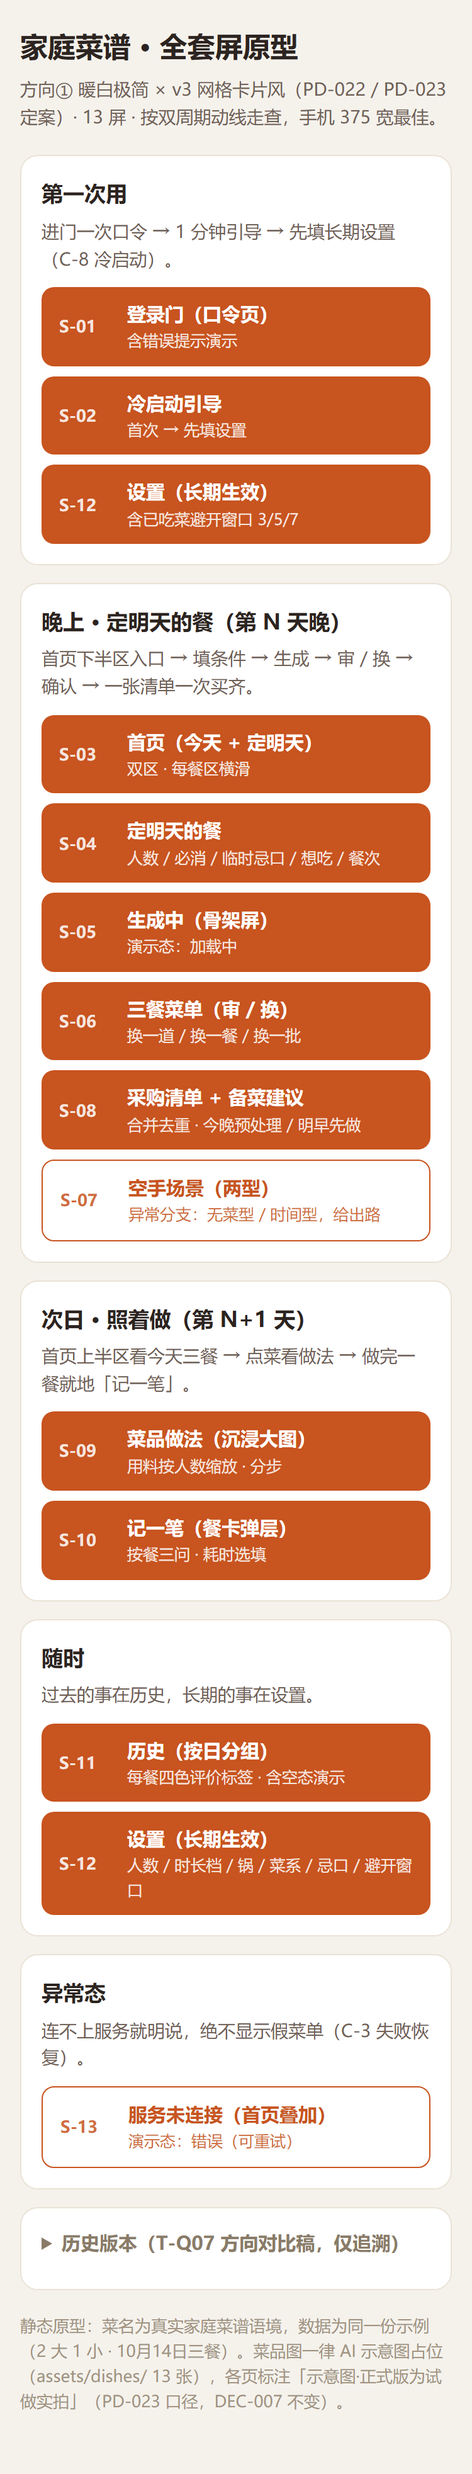
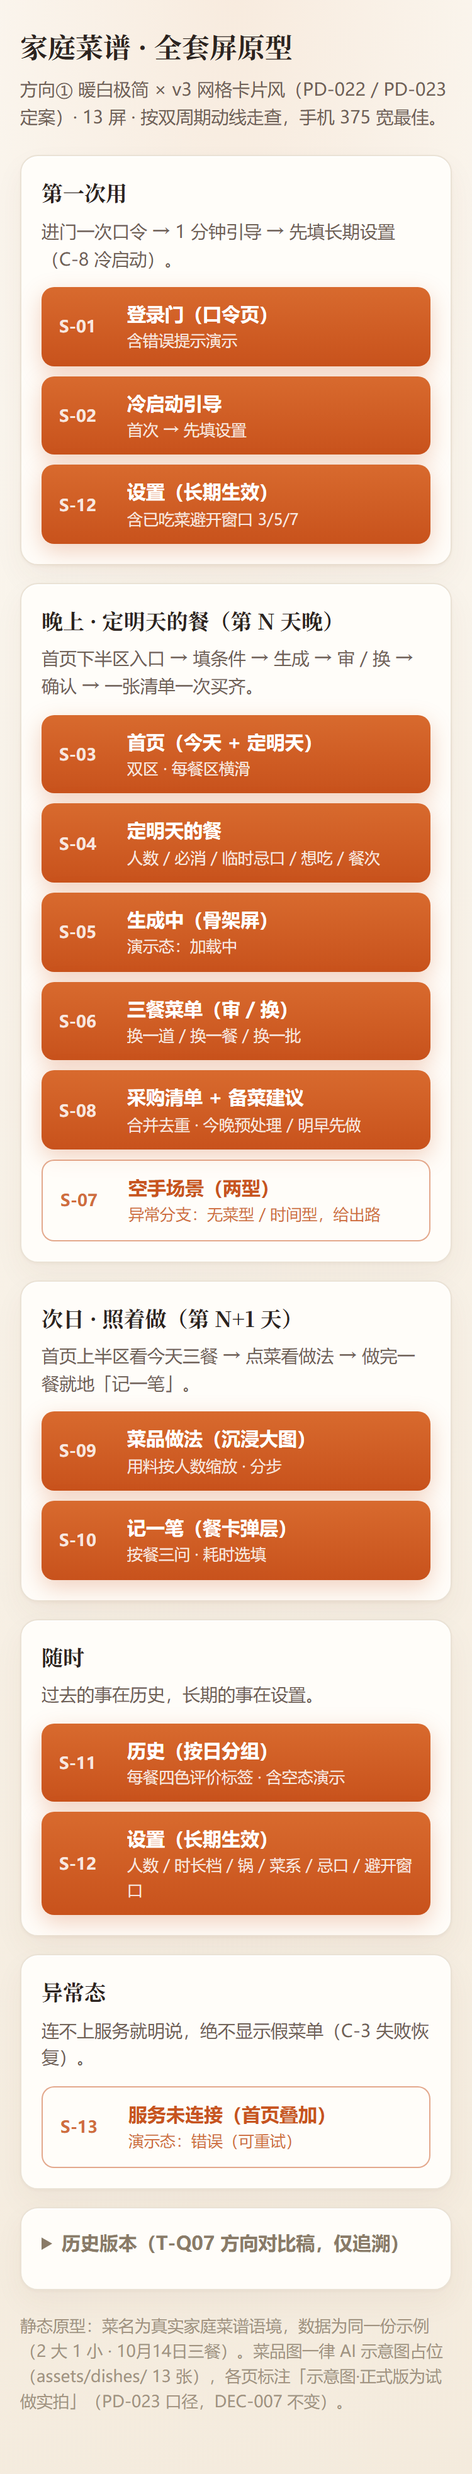
docs(q8): 全套屏原型质感升级（渐变/磨砂/serif 标题/柔影卡片）
手机走查反馈「无高级感」后的纯 CSS 层迭代，版式与屏号结构不动：暖色微渐变底+顶部氛围光；Tabbar/sticky 栏 blur(12px) 磨砂（@supports 外 95% 实色降级）；主按钮暖橙纵向渐变+柔橙影+按压下沉；卡片微暖白+内高光+多层柔影；一级标题与数字日期引 serif 系统字栈、数字 tabular-nums；标签/chips 改半透柔彩+同色细边；行级分隔线改两侧渐隐。文字颜色/字号/触达不变，对比度不降级。design-spec-v2 token 节同步定稿；evidence 14 页同名重截，逐张目检无浏览器错误。

diff --git a/docs/design/v2/prototypes/style-1/style.css b/docs/design/v2/prototypes/style-1/style.css
@@ -1,15 +1,25 @@
 /* ============================================================
    方向① 暖白极简 · 共享 token 组（本方向 3 屏共用，换 token 即换风格）
+   质感迭代（2026-10-14）：暖色微渐变底 + 磨砂浮层 + 主色纵向渐变 +
+   微暖白卡（内高光+多层柔影）+ serif 展示标题 + 两侧渐隐分隔线。
+   原则：克制，不改文字颜色/字号/触达高度，对比度不降级。
    ============================================================ */
 :root {
   /* 色板 */
-  --c-bg: #FAF6EF;            /* 米白页面底 */
-  --c-card: #FFFFFF;          /* 卡片底 */
+  --c-bg: #FBF7F0;            /* 页面底（渐变亮端，纯色场景回退值） */
+  --c-bg-lo: #F4EBDD;         /* 页面底渐变暗端 */
+  --grad-bg: linear-gradient(165deg, var(--c-bg) 0%, var(--c-bg-lo) 100%);
+  --glow-top: radial-gradient(90% 40% at 50% 0%, rgba(216, 120, 52, .09) 0%, rgba(216, 120, 52, 0) 70%); /* 顶部暖橙氛围光，极低透明度 */
+  --c-card: #FFFDF9;          /* 卡片底（微暖白） */
   --c-ink: #2C2420;           /* 深棕主文字 */
   --c-ink-2: #6F6156;         /* 次文字 */
   --c-ink-3: #A2937F;         /* 辅助弱化 */
   --c-line: #EAE2D5;          /* 细分隔线 */
+  --line-fade: linear-gradient(90deg, rgba(234, 226, 213, 0) 0%, rgba(234, 226, 213, 1) 14%, rgba(234, 226, 213, 1) 86%, rgba(234, 226, 213, 0) 100%); /* 两侧渐隐分隔线 */
   --c-primary: #C8541F;       /* 暖陶橙主色 */
+  --c-primary-hi: #D86A2E;    /* 主色渐变亮端 */
+  --c-primary-lo: #C8521C;    /* 主色渐变暗端 */
+  --grad-primary: linear-gradient(180deg, var(--c-primary-hi) 0%, var(--c-primary-lo) 100%);
   --c-primary-ink: #FFFFFF;   /* 主色上文字 */
   --c-primary-soft: #F8E7DA;  /* 主色浅底 */
   --c-accent: #C8541F;        /* 食欲点缀（时间/小提示） */
@@ -17,6 +27,12 @@
   --c-ok-ink: #476B3C;        /* 必消/好评绿字 */
   --c-tag-bg: #F1EDE5;        /* 中性标签底 */
   --c-tag-ink: #8A7B68;       /* 中性标签字 */
+  /* 磨砂浮层（Tabbar / sticky 操作栏 / 轻浮横幅） */
+  --c-glass: rgba(255, 253, 249, .62);        /* @supports 生效时的半透底 */
+  --c-glass-solid: rgba(255, 253, 249, .95);  /* 低版本降级：95% 不透明实色 */
+  --c-glass-line: rgba(90, 60, 30, .08);      /* 磨砂区发际线 */
+  /* 展示字体栈：仅一级标题与数字日期用 serif，正文保持无衬线 */
+  --ff-display: "Noto Serif SC", "Songti SC", "SimSun", serif;
   /* 菜品占位色块（暖色系，标注「实拍图位」） */
   --ph-1: #F2B27E;
   --ph-2: #E8956B;
@@ -37,9 +53,11 @@
   --sp-1: 4px; --sp-2: 8px; --sp-3: 12px; --sp-4: 16px; --sp-5: 24px; --sp-6: 32px;
   /* 圆角 */
   --r-1: 8px; --r-2: 12px; --r-3: 16px; --r-pill: 999px;
-  /* 阴影（极简：近乎无，分区靠留白+细线） */
-  --sh-card: 0 1px 2px rgba(90, 60, 30, .05);
-  --sh-pop: 0 6px 20px rgba(90, 60, 30, .10);
+  /* 阴影（克制叠加：近处贴地 + 远处大模糊柔影 + 卡顶 1px 半透内高光） */
+  --sh-card: 0 1px 2px rgba(90, 60, 30, .04), 0 10px 24px rgba(90, 60, 30, .05), inset 0 1px 0 rgba(255, 255, 255, .85);
+  --sh-pop: 0 12px 32px rgba(90, 60, 30, .14);
+  --sh-primary: 0 6px 18px rgba(200, 84, 31, .26);        /* 主按钮柔和橙影 */
+  --sh-primary-press: 0 2px 8px rgba(200, 84, 31, .20);   /* 按压态下沉 */
 }
 
 /* ===== 以下为本方向 3 屏共用的组件规则（3 套方向间结构一致，仅上方 token 不同） ===== */
@@ -47,8 +65,12 @@
 html { -webkit-text-size-adjust: 100%; }
 body {
   font-family: -apple-system, BlinkMacSystemFont, "PingFang SC", "Hiragino Sans GB", "Microsoft YaHei", sans-serif;
-  background: var(--c-bg); color: var(--c-ink);
+  /* 暖色斜向微渐变底 + 顶部低透明暖橙氛围光；body 背景自动铺满整页画布 */
+  background: var(--c-bg);
+  background: var(--glow-top), var(--grad-bg);
+  color: var(--c-ink);
   font-size: var(--fs-body); line-height: 1.55;
+  font-variant-numeric: tabular-nums; /* 价格/人数/时长等数字等宽对齐 */
 }
 a { color: inherit; text-decoration: none; }
 .page { max-width: 420px; margin: 0 auto; min-height: 100vh; padding: var(--sp-4) var(--sp-4) var(--sp-6); }
@@ -58,12 +80,13 @@ a { color: inherit; text-decoration: none; }
 
 .topbar { margin-bottom: var(--sp-4); }
 .topbar .back { display: inline-block; font-size: var(--fs-small); color: var(--c-ink-2); margin-bottom: var(--sp-2); min-height: 32px; line-height: 32px; }
-.topbar h1 { font-size: var(--fs-h1); font-weight: var(--fw-head); letter-spacing: var(--ls-head); }
+/* 一级标题：serif 展示字栈，与正文无衬线拉开层级 */
+.topbar h1 { font-family: var(--ff-display); font-size: var(--fs-h1); font-weight: var(--fw-head); letter-spacing: var(--ls-head); }
 .topbar .sub { font-size: var(--fs-small); color: var(--c-ink-2); margin-top: 2px; }
 
 .section { margin-top: var(--sp-5); }
 .section-head { display: flex; justify-content: space-between; align-items: baseline; margin-bottom: var(--sp-3); }
-.section-title { font-size: var(--fs-h2); font-weight: var(--fw-head); letter-spacing: var(--ls-head); }
+.section-title { font-family: var(--ff-display); font-size: var(--fs-h2); font-weight: var(--fw-head); letter-spacing: var(--ls-head); }
 .section-note { font-size: var(--fs-small); color: var(--c-ink-3); }
 
 .card { background: var(--c-card); border: 1px solid var(--c-line); border-radius: var(--r-2); box-shadow: var(--sh-card); padding: var(--sp-4); }
@@ -74,13 +97,14 @@ a { color: inherit; text-decoration: none; }
 .meal-time { font-size: var(--fs-small); color: var(--c-accent); }
 .meal-head .tag { margin-left: auto; }
 
+/* 标签：半透柔彩底 + 1px 同色细边（inset），去实色块塑料感；「下一餐」用主色渐变浮起 */
 .tag { display: inline-flex; align-items: center; min-height: 26px; padding: 0 10px; border-radius: var(--r-pill); font-size: var(--fs-mini); font-weight: 600; white-space: nowrap; }
-.tag-next { background: var(--c-primary); color: var(--c-primary-ink); }
-.tag-ok { background: var(--c-ok-bg); color: var(--c-ok-ink); }
-.tag-mid { background: var(--c-tag-bg); color: var(--c-tag-ink); }
+.tag-next { background: var(--grad-primary); color: var(--c-primary-ink); box-shadow: 0 3px 10px rgba(200, 84, 31, .28); }
+.tag-ok { background: rgba(71, 107, 60, .10); color: var(--c-ok-ink); box-shadow: inset 0 0 0 1px rgba(71, 107, 60, .26); }
+.tag-mid { background: rgba(138, 123, 104, .10); color: var(--c-tag-ink); box-shadow: inset 0 0 0 1px rgba(138, 123, 104, .26); }
 
-.dish { display: flex; align-items: center; gap: var(--sp-3); padding: var(--sp-3) 0; border-top: 1px solid var(--c-line); }
-.dish:first-of-type { border-top: 0; }
+.dish { display: flex; align-items: center; gap: var(--sp-3); padding: var(--sp-3) 0; background: var(--line-fade) no-repeat top / 100% 1px; }
+.dish:first-of-type { background: none; }
 .ph { width: 64px; height: 64px; flex: none; border-radius: var(--r-1); display: flex; flex-direction: column; align-items: center; justify-content: center; gap: 2px; color: rgba(66, 44, 22, .78); }
 .ph b { font-size: 12.5px; font-weight: 700; }
 .ph i { font-style: normal; font-size: 9.5px; opacity: .75; }
@@ -94,15 +118,20 @@ a { color: inherit; text-decoration: none; }
 .dish-meta { font-size: var(--fs-small); color: var(--c-ink-2); }
 .dish-src { font-size: var(--fs-mini); color: var(--c-ink-3); margin-top: 1px; }
 
-.btn { display: flex; align-items: center; justify-content: center; min-height: 48px; padding: 0 var(--sp-4); border-radius: var(--r-2); border: 1px solid transparent; background: var(--c-primary); color: var(--c-primary-ink); font-size: var(--fs-body); font-weight: 600; text-align: center; }
-.btn-ghost { background: transparent; color: var(--c-primary); border-color: var(--c-primary); }
-.btn-plain { background: var(--c-tag-bg); color: var(--c-ink-2); }
+/* 主按钮：暖橙纵向微渐变 + 柔和橙影；次按钮幽灵风 + 半透细边 */
+.btn { display: flex; align-items: center; justify-content: center; min-height: 48px; padding: 0 var(--sp-4); border-radius: var(--r-2); border: 1px solid transparent; background: var(--grad-primary); color: var(--c-primary-ink); font-size: var(--fs-body); font-weight: 600; text-align: center; box-shadow: var(--sh-primary); }
+.btn-ghost { background: rgba(255, 253, 249, .55); color: var(--c-primary); border-color: rgba(200, 84, 31, .5); box-shadow: none; }
+.btn-plain { background: var(--c-tag-bg); color: var(--c-ink-2); box-shadow: none; }
 .btn-sm { min-height: 44px; padding: 0 14px; font-size: var(--fs-small); border-radius: var(--r-1); }
 .btn-row { display: flex; gap: var(--sp-3); margin-top: var(--sp-3); }
 .btn-row .btn { flex: 1; }
 
-.banner { display: flex; gap: var(--sp-2); align-items: flex-start; background: var(--c-ok-bg); color: var(--c-ok-ink); border-radius: var(--r-2); padding: var(--sp-3) var(--sp-4); font-size: var(--fs-small); }
+/* 必消横幅：轻磨砂浮层（半透 + 同色细边），低版本为 95% 实色 */
+.banner { display: flex; gap: var(--sp-2); align-items: flex-start; background: rgba(237, 243, 228, .82); color: var(--c-ok-ink); border-radius: var(--r-2); padding: var(--sp-3) var(--sp-4); font-size: var(--fs-small); box-shadow: inset 0 0 0 1px rgba(71, 107, 60, .16); }
 .banner b { font-weight: 700; }
+@supports (backdrop-filter: blur(1px)) {
+  .banner { background: rgba(237, 243, 228, .68); backdrop-filter: blur(10px); -webkit-backdrop-filter: blur(10px); }
+}
 
 .cand-row { display: flex; flex-wrap: wrap; gap: var(--sp-2); padding: 0 0 var(--sp-3); }
 .cand { display: inline-flex; align-items: center; min-height: 36px; padding: 0 14px; border: 1px dashed var(--c-primary); color: var(--c-primary); border-radius: var(--r-pill); font-size: var(--fs-small); }
@@ -110,8 +139,8 @@ a { color: inherit; text-decoration: none; }
 .group-title { display: flex; justify-content: space-between; align-items: baseline; font-size: var(--fs-small); font-weight: 700; color: var(--c-ink-2); padding: var(--sp-3) var(--sp-1) var(--sp-2); }
 .group-title em { font-style: normal; font-weight: 400; color: var(--c-ink-3); }
 .list { background: var(--c-card); border: 1px solid var(--c-line); border-radius: var(--r-2); box-shadow: var(--sh-card); overflow: hidden; }
-.item { display: flex; align-items: center; gap: var(--sp-3); padding: var(--sp-3) var(--sp-4); border-top: 1px solid var(--c-line); min-height: 56px; }
-.item:first-child { border-top: 0; }
+.item { display: flex; align-items: center; gap: var(--sp-3); padding: var(--sp-3) var(--sp-4); background: var(--line-fade) no-repeat top / 100% 1px; min-height: 56px; }
+.item:first-child { background: none; }
 .check { width: 26px; height: 26px; flex: none; border-radius: 50%; border: 2px solid var(--c-line); display: flex; align-items: center; justify-content: center; font-size: 14px; color: transparent; }
 .item.done .check { background: var(--c-ok-ink); border-color: var(--c-ok-ink); color: #fff; }
 .item .name { flex: 1; font-size: var(--fs-body); }
@@ -128,14 +157,21 @@ a { color: inherit; text-decoration: none; }
 .step .num { width: 28px; height: 28px; flex: none; border-radius: 50%; background: var(--c-primary-soft); color: var(--c-primary); font-size: var(--fs-small); font-weight: 700; display: flex; align-items: center; justify-content: center; }
 .step p { flex: 1; font-size: var(--fs-body); }
 
-.stickybar { margin: var(--sp-5) calc(-1 * var(--sp-4)) calc(-1 * var(--sp-6)); padding: var(--sp-3) var(--sp-4) var(--sp-4); background: var(--c-bg); border-top: 1px solid var(--c-line); display: flex; gap: var(--sp-3); }
+/* 底部操作栏 / Tabbar：半透磨砂（blur 12px）；不支持时降级 95% 不透明实色 */
+.stickybar { margin: var(--sp-5) calc(-1 * var(--sp-4)) calc(-1 * var(--sp-6)); padding: var(--sp-3) var(--sp-4) var(--sp-4); background: var(--c-glass-solid); border-top: 1px solid var(--c-glass-line); display: flex; gap: var(--sp-3); }
 .stickybar .btn { flex: 1; }
 
-.tabbar { position: static; width: 100%; max-width: 420px; margin: var(--sp-5) auto 0; background: var(--c-card); border-top: 1px solid var(--c-line); display: flex; z-index: 10; }
+.tabbar { position: static; width: 100%; max-width: 420px; margin: var(--sp-5) auto 0; background: var(--c-glass-solid); border-top: 1px solid var(--c-glass-line); display: flex; z-index: 10; }
+@supports (backdrop-filter: blur(1px)) {
+  .stickybar, .tabbar { background: var(--c-glass); backdrop-filter: blur(12px); -webkit-backdrop-filter: blur(12px); }
+}
 .tab { flex: 1; text-align: center; padding: 12px 0 14px; font-size: var(--fs-small); color: var(--c-ink-3); }
 .tab.active { color: var(--c-primary); font-weight: 700; }
 .tab .dot { width: 4px; height: 4px; border-radius: 50%; background: var(--c-primary); margin: 3px auto 0; }
 .tab:not(.active) .dot { visibility: hidden; }
 
-.btn:active, .cand:active, .tab:active, .back:active { opacity: .82; }
+/* 按压反馈：主按钮下沉收影，其余降透明；均有反馈，禁止静默 */
+.btn:active { transform: translateY(1px); box-shadow: var(--sh-primary-press); }
+.btn-ghost:active, .btn-plain:active { transform: none; box-shadow: none; opacity: .82; }
+.cand:active, .tab:active, .back:active { opacity: .82; }
 .item .src { display: block; }

diff --git a/docs/design/v2/prototypes/style-1/v3/v3.css b/docs/design/v2/prototypes/style-1/v3/v3.css
@@ -49,12 +49,15 @@
   --c-none-ink: #8A8578;
 }
 
-/* --- 状态标签补充（tag-next/tag-ok/tag-mid 在 ../style.css） --- */
-.tag-bad { background: var(--c-bad-bg); color: var(--c-bad-ink); }
-.tag-none { background: var(--c-none-bg); color: var(--c-none-ink); }
+/* --- 状态标签补充（tag-next/tag-ok/tag-mid 在 ../style.css）：同款半透柔彩 + 同色细边 --- */
+.tag-bad { background: rgba(166, 58, 34, .10); color: var(--c-bad-ink); box-shadow: inset 0 0 0 1px rgba(166, 58, 34, .26); }
+.tag-none { background: rgba(138, 133, 120, .10); color: var(--c-none-ink); box-shadow: inset 0 0 0 1px rgba(138, 133, 120, .26); }
 
-/* --- 警示横幅（服务未连接 + 重试，与 .banner 同构） --- */
-.banner-warn { background: var(--c-warn-bg); color: var(--c-warn-ink); }
+/* --- 警示横幅（服务未连接 + 重试，与 .banner 同构）：轻磨砂，保持警示辨识度 --- */
+.banner-warn { background: rgba(249, 237, 218, .84); color: var(--c-warn-ink); box-shadow: inset 0 0 0 1px rgba(154, 103, 28, .20); }
+@supports (backdrop-filter: blur(1px)) {
+  .banner-warn { background: rgba(249, 237, 218, .70); }
+}
 .banner .act { margin-left: auto; flex: none; align-self: center; font-weight: 700; text-decoration: underline; white-space: nowrap; }
 .banner .act:active { opacity: .82; }
 
@@ -64,7 +67,7 @@
 
 /* --- 登录门 --- */
 .gate { min-height: 72vh; display: flex; flex-direction: column; justify-content: center; }
-.gate-title { font-size: var(--fs-display); font-weight: var(--fw-head); text-align: center; }
+.gate-title { font-family: var(--ff-display); font-size: var(--fs-display); font-weight: var(--fw-head); text-align: center; }
 .gate-sub { text-align: center; color: var(--c-ink-2); font-size: var(--fs-small); margin: var(--sp-2) 0 var(--sp-5); }
 
 /* --- 表单（卡片复用 ../style.css .card） --- */
@@ -83,14 +86,14 @@
 .step-btn { width: 44px; height: 44px; border-radius: 50%; background: var(--c-primary-soft); color: var(--c-primary); font-size: 20px; font-weight: 700; display: flex; align-items: center; justify-content: center; }
 .step-val { min-width: 30px; text-align: center; font-size: var(--fs-h2); font-weight: 700; }
 
-/* --- 标签 chips（必消=绿 / 临时忌口=警示 / 硬禁忌=红 / 软偏好=灰 / 添加=虚线） --- */
+/* --- 标签 chips：半透柔彩底 + 1px 同色细边；「仅明天生效」等警示 chip 保持辨识度 --- */
 .chips { display: flex; flex-wrap: wrap; gap: var(--sp-2); margin-top: var(--sp-3); }
-.chip { display: inline-flex; align-items: center; gap: 6px; min-height: 40px; padding: 0 14px; border-radius: var(--r-pill); background: var(--c-ok-bg); color: var(--c-ok-ink); font-size: var(--fs-small); font-weight: 600; }
+.chip { display: inline-flex; align-items: center; gap: 6px; min-height: 40px; padding: 0 14px; border-radius: var(--r-pill); background: rgba(71, 107, 60, .10); color: var(--c-ok-ink); font-size: var(--fs-small); font-weight: 600; box-shadow: inset 0 0 0 1px rgba(71, 107, 60, .26); }
 .chip .x { opacity: .6; font-weight: 700; }
-.chip-temp { background: var(--c-warn-bg); color: var(--c-warn-ink); }
-.chip-hard { background: var(--c-bad-bg); color: var(--c-bad-ink); }
-.chip-soft { background: var(--c-tag-bg); color: var(--c-tag-ink); }
-.chip-add { background: transparent; border: 1px dashed var(--c-primary); color: var(--c-primary); }
+.chip-temp { background: rgba(154, 103, 28, .10); color: var(--c-warn-ink); box-shadow: inset 0 0 0 1px rgba(154, 103, 28, .30); }
+.chip-hard { background: rgba(166, 58, 34, .10); color: var(--c-bad-ink); box-shadow: inset 0 0 0 1px rgba(166, 58, 34, .30); }
+.chip-soft { background: rgba(138, 123, 104, .10); color: var(--c-tag-ink); box-shadow: inset 0 0 0 1px rgba(138, 123, 104, .26); }
+.chip-add { background: rgba(255, 253, 249, .45); border: 1px dashed var(--c-primary); color: var(--c-primary); box-shadow: none; }
 
 /* --- 选项胶囊（单/多选，选中=主色浅底描边，44px 触达） --- */
 .opts { display: flex; flex-wrap: wrap; gap: var(--sp-2); margin-top: var(--sp-3); }
@@ -114,19 +117,19 @@
 .dhero-back { position: absolute; top: 12px; left: 12px; width: 44px; height: 44px; border-radius: 50%; background: rgba(255, 255, 255, .94); color: var(--c-ink); font-size: 20px; display: flex; align-items: center; justify-content: center; box-shadow: var(--sh-pop); }
 .dhero-back:active { opacity: .82; }
 .dhero-mask { position: absolute; left: 0; right: 0; bottom: 0; padding: 30px var(--sp-4) var(--sp-3); background: linear-gradient(180deg, rgba(32, 20, 10, 0) 0%, rgba(32, 20, 10, .68) 100%); color: #FFF; }
-.dhero-name { font-size: var(--fs-h1); font-weight: var(--fw-head); text-shadow: 0 1px 6px rgba(0, 0, 0, .3); }
+.dhero-name { font-family: var(--ff-display); font-size: var(--fs-h1); font-weight: var(--fw-head); text-shadow: 0 1px 6px rgba(0, 0, 0, .3); }
 .dhero-sub { font-size: var(--fs-small); opacity: .92; margin-top: 1px; }
 .dchips { display: flex; flex-wrap: wrap; gap: 6px; margin-top: var(--sp-2); }
 .dchip { display: inline-flex; align-items: center; min-height: 26px; padding: 0 10px; border-radius: var(--r-pill); background: rgba(255, 255, 255, .24); color: #FFF; font-size: var(--fs-mini); font-weight: 600; }
-.dchip.hot { background: var(--c-primary); }
+.dchip.hot { background: var(--grad-primary); box-shadow: 0 3px 10px rgba(200, 84, 31, .30); }
 .dswitch { display: flex; justify-content: space-between; align-items: center; gap: var(--sp-3); margin-top: var(--sp-3); font-size: var(--fs-small); color: var(--c-ink-2); }
 .dswitch a { min-height: 36px; display: inline-flex; align-items: center; }
 .dswitch a:active { opacity: .82; }
 .dswitch .dimmed { color: var(--c-ink-3); }
 
 /* --- 用料行（名称左 / 用量右） --- */
-.ing-row { display: flex; justify-content: space-between; gap: var(--sp-3); padding: var(--sp-2) 0; border-top: 1px solid var(--c-line); }
-.ing-row:first-of-type { border-top: 0; }
+.ing-row { display: flex; justify-content: space-between; gap: var(--sp-3); padding: var(--sp-2) 0; background: var(--line-fade) no-repeat top / 100% 1px; }
+.ing-row:first-of-type { background: none; }
 .ing-name { font-size: var(--fs-body); font-weight: 600; }
 .ing-qty { font-size: var(--fs-small); color: var(--c-ink-2); text-align: right; }
 
@@ -142,10 +145,10 @@
 
 /* --- 历史（按日分组，每餐一行：餐次 + 圆图 + 菜名 + 评价标签） --- */
 .day-head { display: flex; align-items: baseline; justify-content: space-between; margin-bottom: var(--sp-2); }
-.day-title { font-size: var(--fs-h2); font-weight: var(--fw-head); }
+.day-title { font-family: var(--ff-display); font-size: var(--fs-h2); font-weight: var(--fw-head); }
 .day-note { font-size: var(--fs-mini); color: var(--c-ink-3); }
-.meal-row { display: flex; align-items: center; gap: var(--sp-3); padding: var(--sp-3) 0; border-top: 1px solid var(--c-line); }
-.meal-row:first-of-type { border-top: 0; }
+.meal-row { display: flex; align-items: center; gap: var(--sp-3); padding: var(--sp-3) 0; background: var(--line-fade) no-repeat top / 100% 1px; }
+.meal-row:first-of-type { background: none; }
 .meal-row .gthumbs { margin-left: 0; padding-right: 0; }
 .meal-row-name { flex: none; width: 30px; font-size: var(--fs-small); font-weight: 700; color: var(--c-ink-2); }
 .meal-row-body { flex: 1; min-width: 0; }

diff --git a/docs/design/v2/prototypes/index.html b/docs/design/v2/prototypes/index.html
@@ -6,22 +6,23 @@
 <title>全套屏原型 · 走查索引</title>
 <style>
   * { box-sizing: border-box; margin: 0; padding: 0; }
-  body { font-family: -apple-system, BlinkMacSystemFont, "PingFang SC", "Hiragino Sans GB", "Microsoft YaHei", sans-serif; background: #F5F2EC; color: #2C2420; font-size: 16px; line-height: 1.55; }
+  body { font-family: -apple-system, BlinkMacSystemFont, "PingFang SC", "Hiragino Sans GB", "Microsoft YaHei", sans-serif; background: #FBF7F0; background: radial-gradient(90% 40% at 50% 0%, rgba(216,120,52,.09) 0%, rgba(216,120,52,0) 70%), linear-gradient(165deg, #FBF7F0 0%, #F4EBDD 100%); color: #2C2420; font-size: 16px; line-height: 1.55; font-variant-numeric: tabular-nums; }
   .page { max-width: 420px; margin: 0 auto; padding: 20px 16px 48px; }
-  h1 { font-size: 22px; }
+  h1 { font-family: "Noto Serif SC", "Songti SC", "SimSun", serif; font-size: 22px; }
   .sub { font-size: 14px; color: #6F6156; margin: 6px 0 20px; }
-  .flow { background: #fff; border: 1px solid #EAE2D5; border-radius: 14px; padding: 16px; margin-bottom: 14px; }
-  .flow-name { font-size: 17px; font-weight: 700; }
+  .flow { background: #FFFDF9; border: 1px solid #EAE2D5; border-radius: 14px; padding: 16px; margin-bottom: 14px; box-shadow: 0 1px 2px rgba(90,60,30,.04), 0 10px 24px rgba(90,60,30,.05), inset 0 1px 0 rgba(255,255,255,.85); }
+  .flow-name { font-family: "Noto Serif SC", "Songti SC", "SimSun", serif; font-size: 17px; font-weight: 700; }
   .flow-desc { font-size: 14px; color: #6F6156; margin: 6px 0 12px; }
   .steps { display: flex; flex-direction: column; gap: 8px; }
-  .steps a { display: flex; align-items: center; gap: 10px; min-height: 48px; padding: 10px 14px; border-radius: 10px; background: #C8541F; color: #fff; text-decoration: none; }
-  .steps a.alt { background: #fff; color: #C8541F; border: 1px solid #C8541F; }
-  .steps a:active { opacity: .82; }
+  .steps a { display: flex; align-items: center; gap: 10px; min-height: 48px; padding: 10px 14px; border-radius: 10px; background: linear-gradient(180deg, #D86A2E 0%, #C8521C 100%); color: #fff; text-decoration: none; box-shadow: 0 6px 18px rgba(200,84,31,.26); }
+  .steps a.alt { background: rgba(255,253,249,.55); color: #C8541F; border: 1px solid rgba(200,84,31,.5); box-shadow: none; }
+  .steps a:active { transform: translateY(1px); box-shadow: 0 2px 8px rgba(200,84,31,.20); }
+  .steps a.alt:active { transform: none; opacity: .82; }
   .sno { flex: none; width: 44px; font-size: 13px; font-weight: 700; opacity: .85; }
   .sbody { flex: 1; min-width: 0; display: flex; flex-direction: column; }
   .sname { font-size: 15px; font-weight: 600; }
   .sdesc { font-size: 12.5px; font-weight: 400; opacity: .85; }
-  details { background: #fff; border: 1px solid #EAE2D5; border-radius: 14px; padding: 16px; margin-bottom: 14px; }
+  details { background: #FFFDF9; border: 1px solid #EAE2D5; border-radius: 14px; padding: 16px; margin-bottom: 14px; box-shadow: 0 1px 2px rgba(90,60,30,.04), 0 10px 24px rgba(90,60,30,.05), inset 0 1px 0 rgba(255,255,255,.85); }
   summary { font-size: 15px; font-weight: 700; color: #8A7B68; cursor: pointer; min-height: 32px; }
   .old { margin-top: 12px; }
   .old-head { font-size: 13px; font-weight: 700; color: #8A7B68; margin: 10px 0 6px; }

diff --git a/docs/design/v2/design-spec-v2.md b/docs/design/v2/design-spec-v2.md
@@ -10,32 +10,40 @@
 
 | Token | 值 | 用途 |
 |---|---|---|
-| `--c-bg` | `#FAF6EF` | 米白页面底 |
-| `--c-card` | `#FFFFFF` | 卡片底 |
+| `--c-bg / --c-bg-lo` | `#FBF7F0 / #F4EBDD` | 页面底：暖色斜向微渐变两端（`--grad-bg`，165deg）；纯色场景回退 `--c-bg` |
+| `--glow-top` | 暖橙 radial，透明度 ≤.09 | 页面顶部氛围光（极低透明度，不抢眼） |
+| `--c-card` | `#FFFDF9` | 卡片底（微暖白） |
 | `--c-ink` | `#2C2420` | 深棕主文字 |
 | `--c-ink-2` | `#6F6156` | 次文字 |
 | `--c-ink-3` | `#A2937F` | 辅助弱化 |
 | `--c-line` | `#EAE2D5` | 细分隔线/卡片描边 |
-| `--c-primary` | `#C8541F` | 暖陶橙主色：主按钮、选中态、下一餐标签、时间点缀 |
+| `--line-fade` | 90deg 渐隐渐变 | 行级分隔线：两侧渐隐（替代实色细线） |
+| `--c-primary` | `#C8541F` | 暖陶橙主色：选中态、文字点缀 |
+| `--c-primary-hi / --c-primary-lo` | `#D86A2E / #C8521C` | 主色纵向微渐变两端（`--grad-primary`）：主按钮、下一餐标签、热 chip |
 | `--c-primary-soft` | `#F8E7DA` | 主色浅底：选中胶囊、步骤圆点 |
+| `--c-glass / --c-glass-solid` | `rgba(255,253,249,.62 / .95)` | **新增**：磨砂浮层底（Tabbar/底部操作栏/轻横幅）；`@supports (backdrop-filter)` 生效用 .62 半透 + blur(12px)，低版本降级 .95 实色 |
+| `--c-glass-line` | `rgba(90,60,30,.08)` | **新增**：磨砂区发际线 |
 | `--c-ok-bg / --c-ok-ink` | `#EDF3E4 / #476B3C` | 必消、好评、已买勾 |
 | `--c-tag-bg / --c-tag-ink` | `#F1EDE5 / #8A7B68` | 中性标签、骨架块、弱按钮底 |
-| `--c-warn-bg / --c-warn-ink` | `#F9EDDA / #9A671C` | **新增**：警示（服务未连接、临时忌口） |
-| `--c-bad-bg / --c-bad-ink` | `#F7E3DB / #A63A22` | **新增**：翻车、硬禁忌、输入错误 |
-| `--c-none-bg / --c-none-ink` | `#EFEDE8 / #8A8578` | **新增**：没做、未记录 |
+| `--c-warn-bg / --c-warn-ink` | `#F9EDDA / #9A671C` | 警示（服务未连接、临时忌口） |
+| `--c-bad-bg / --c-bad-ink` | `#F7E3DB / #A63A22` | 翻车、硬禁忌、输入错误 |
+| `--c-none-bg / --c-none-ink` | `#EFEDE8 / #8A8578` | 没做、未记录 |
 | `--ph-1~6` | 暖色六色 | 菜品图加载失败降级底色（图上始终可读菜名） |
 
 评价四色：好吃=ok 绿 / 一般=mid 米灰 / 翻车=bad 暖红 / 没做=none 灰。硬禁忌一律 bad 红字并配「绝不会出现」说明（红线提示）。
+标签/chips 一律「半透柔彩底（同色 ~10%）+ 1px 同色细边（inset ~26%）」，不用实色块；警示/硬禁忌细边加浓至 ~30% 保持辨识度。「下一餐」标签例外：主色渐变 + 柔和橙影浮起。
 
 ### 1.2 字阶 / 间距 / 圆角 / 阴影
 
 | 项 | 值 |
 |---|---|
 | 字阶 | 26 / 21 / 17 / 16 / 14 / 12.5 六级；正文 16px（≥15px 长辈可用）；标题 700 不加字距 |
+| 字体栈 | 展示 serif 栈 `--ff-display: "Noto Serif SC","Songti SC","SimSun",serif` **仅用于一级标题与数字日期**（页标题/区块标题/菜名大标题/日期分组）；正文保持系统无衬线；数字一律 `tabular-nums`；不引外部字体文件 |
 | 间距 | 4 / 8 / 12 / 16 / 24 / 32（sp-1~6） |
 | 圆角 | 8 / 12 / 16 + 胶囊 999 |
-| 阴影 | 卡 `0 1px 2px rgba(90,60,30,.05)`、弹层 `0 6px 20px rgba(90,60,30,.10)`（近乎无影，分区靠留白+细线） |
-| 触达 | 主按钮 48px、次按钮/选项胶囊/步进器 ≥44px、卡内小按钮 40px；全部 `:active` 降透明反馈，禁止静默 |
+| 阴影 | 卡 `0 1px 2px + 0 10px 24px rgba(90,60,30,.04/.05) + inset 0 1px 0 rgba(255,255,255,.85)`（贴地+远柔影+卡顶内高光）；弹层 `0 12px 32px rgba(90,60,30,.14)`；主按钮 `0 6px 18px rgba(200,84,31,.26)` 按压收至 `0 2px 8px` |
+| 触达 | 主按钮 48px、次按钮/选项胶囊/步进器 ≥44px、卡内小按钮 40px；主按钮 `:active` 下沉 1px 收影，其余降透明反馈，禁止静默 |
+| 磨砂 | Tabbar 与底部 sticky 操作栏：`backdrop-filter: blur(12px)` + `--c-glass` 半透底；`@supports` 外降级 `--c-glass-solid` 95% 实色；磨砂区下文字保持可清晰阅读 |
 
 ## 2. 版式规则（网格卡片式）
 
